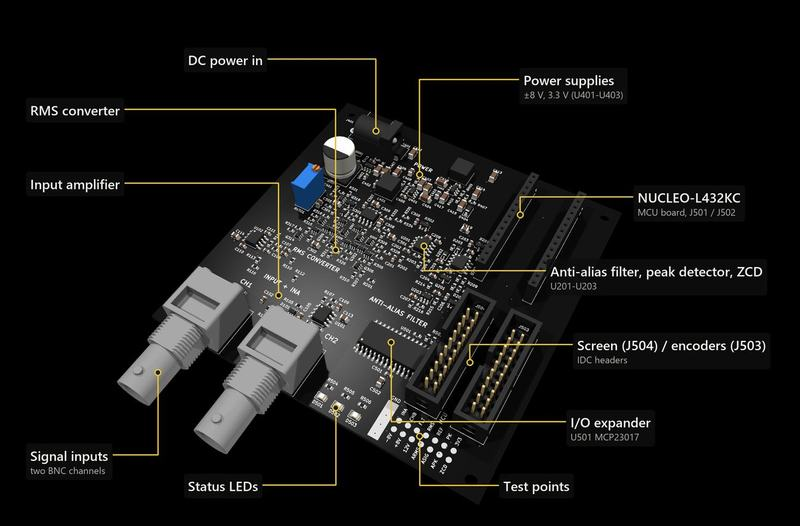
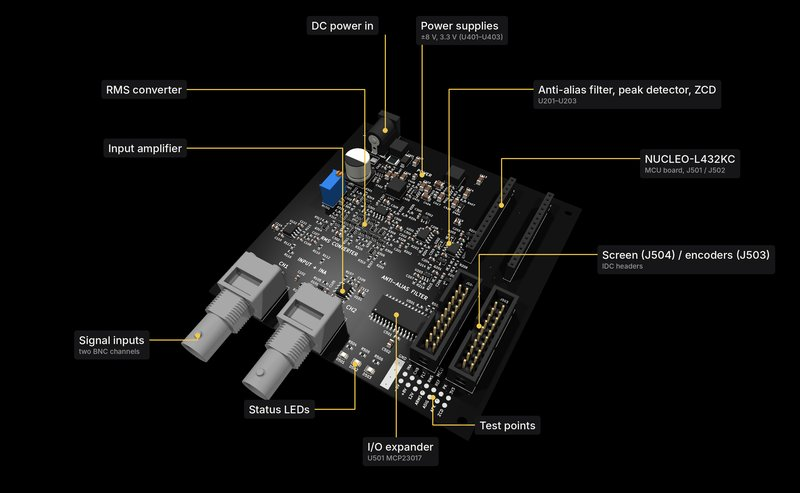
Fix cropped PCB render labels; add EBB team photo to Olifante section (#2)
* Show full PCB render without cropping labels; add EBB team photo to Olifante section

* Add second Dean's Merit List and bronze award (two years running)

* Bronze award: top 3 in year group

* PCB render: corrected barrel jack orientation, labels redrawn

---------

Changed region(s): [[0.0312, 0.0304, 0.9688, 0.9432], [0.5, 0.0304, 0.6562, 0.0913], [0.0312, 0.8519, 0.1875, 0.9128]]

diff --git a/index.html b/index.html
@@ -49,7 +49,7 @@ d.className+=(lite?" lite":" full")+(/Android/i.test(ua)?" android":(/iPhone|iPa
     <div class="tile t-red"><p>Under contract until 2030</p></div>
     <div class="tile glass t-now"><p>Engineer in Training at Cape Gate, <em>Dec&nbsp;2025 – present</em></p></div>
     <div class="tile glass t-n"><b>80.0%</b><span>cumulative GPA, B.Eng</span></div>
-    <div class="tile glass t-n"><b>2024</b><span>Dean’s Merit List</span></div>
+    <div class="tile glass t-n"><b>2×</b><span>Dean’s Merit List</span></div>
     <div class="tile glass t-n"><b>84.42%</b><span>NSC final aggregate</span></div>
     <div class="tile glass t-n"><b>2015</b><span>karate since Aug&nbsp;2015</span></div>
     <div class="tile glass t-cta"><p>Contact for work or collaboration</p>
@@ -84,7 +84,7 @@ d.className+=(lite?" lite":" full")+(/Android/i.test(ua)?" android":(/iPhone|iPa
   <h2 class="rv" id="projects-h">Selected<span class="d">Projects</span></h2>
 
   <article class="proj glass rv">
-    <div class="shot"><picture><source media="(max-width:760px)" srcset="img/pcb-render-s.jpg"><img src="img/pcb-render.jpg" alt="Annotated black render of the PBCCO-O1000 test PCB" width="1300" height="855" loading="lazy" decoding="async"></picture></div>
+    <div class="shot"><picture><source media="(max-width:760px)" srcset="img/pcb-render-s.jpg"><img src="img/pcb-render.jpg" alt="Annotated black render of the PBCCO-O1000 test PCB" width="1500" height="925" loading="lazy" decoding="async"></picture></div>
     <div class="txt">
       <p class="meta">EPR320 · ongoing · sole designer</p>
       <h3><span translate="no">PBCCO-O1000</span> impedance analyser front end</h3>
@@ -134,7 +134,8 @@ d.className+=(lite?" lite":" full")+(/Android/i.test(ua)?" android":(/iPhone|iPa
   <ul class="skills rv"><li>C++</li><li>Python</li><li>MATLAB</li><li>LTspice</li><li>SolidWorks</li><li>LaTeX</li><li>VHDL</li><li>Assembly</li><li>MS Office</li><li>Robotics / Mechatronics</li><li>MV/LV maintenance</li></ul>
   <div class="cols rv">
     <div><h3>Achievements</h3><ul>
-      <li>Dean’s Merit List, Faculty of Engineering, 2024</li>
+      <li>Dean’s Merit List, Faculty of Engineering, 2024, and again for second-year marks</li>
+      <li>Bronze award, two years in a row, placing in the top 3 of electrical engineering students in my year group</li>
       <li>Golden Key Award nominee, top 15% in Electrical Engineering</li>
       <li>Gold &amp; silver medallist, Shorin-Ryu Karate National Championship, 2017 – 2023</li>
       <li>Silver medallist, WUKF National Karate Championship, 2024</li>
@@ -201,7 +202,7 @@ d.className+=(lite?" lite":" full")+(/Android/i.test(ua)?" android":(/iPhone|iPa
         <span class="pl" aria-hidden="true"></span>
       </button>
       <div class="rep-b" id="ebb-b" role="region" aria-labelledby="ebb-h"><div class="rep-bi">
-        <p>Root-locus and frequency-response designs, tested on the hardware.</p><dl class="rep-s"><div><dt>G11 root-locus damping line</dt><dd>ζ&nbsp;=&nbsp;0.591</dd></div><div><dt>G11 / G22 references</dt><dd>60&nbsp;°C / 50&nbsp;°C</dd></div></dl><div class="rep-f"><figure><picture><source media="(max-width:760px)" srcset="img/ebb-pid-results-s.jpg"><img src="img/ebb-pid-results.jpg" alt="Temperature tracking and control signals for the G11 and G22 loops" width="1000" height="652" loading="lazy" decoding="async"></picture><figcaption>Measured temperature tracking and control signals, root-locus design (60&nbsp;°C / 50&nbsp;°C)</figcaption></figure></div><div class="rep-ph"><figure class="photo"><picture><source media="(max-width:760px)" srcset="img/ebb-setup-s.jpg"><img src="img/ebb-setup.jpg" alt="Laptop showing temperature and control-signal plots beside a breadboard circuit" width="1080" height="608" style="object-position:50% 50%" loading="lazy" decoding="async"></picture><figcaption class="cap">EBB 320 practical set-up</figcaption></figure><figure class="photo"><picture><source media="(max-width:760px)" srcset="img/ebb-lab-s.jpg"><img src="img/ebb-lab.jpg" alt="Carla, Clarise and Dominik at a lab bench with a laptop and breadboard" width="1080" height="608" style="object-position:50% 40%" loading="lazy" decoding="async"></picture><figcaption class="cap">EBB 320 practical · Carla, Clarise and Dominik</figcaption></figure></div><p class="source">Photos: @eeceup, University of Pretoria.</p>
+        <p>Root-locus and frequency-response designs, tested on the hardware.</p><dl class="rep-s"><div><dt>G11 root-locus damping line</dt><dd>ζ&nbsp;=&nbsp;0.591</dd></div><div><dt>G11 / G22 references</dt><dd>60&nbsp;°C / 50&nbsp;°C</dd></div></dl><div class="rep-f"><figure><picture><source media="(max-width:760px)" srcset="img/ebb-pid-results-s.jpg"><img src="img/ebb-pid-results.jpg" alt="Temperature tracking and control signals for the G11 and G22 loops" width="1000" height="652" loading="lazy" decoding="async"></picture><figcaption>Measured temperature tracking and control signals, root-locus design (60&nbsp;°C / 50&nbsp;°C)</figcaption></figure></div><div class="rep-ph"><figure class="photo"><picture><source media="(max-width:760px)" srcset="img/ebb-setup-s.jpg"><img src="img/ebb-setup.jpg" alt="Laptop showing temperature and control-signal plots beside a breadboard circuit" width="1080" height="608" style="object-position:50% 50%" loading="lazy" decoding="async"></picture><figcaption class="cap">EBB 320 practical set-up</figcaption></figure></div><p class="source">Photo: @eeceup, University of Pretoria.</p>
       </div></div>
     </article>
     <article class="glass rep rv">
@@ -239,6 +240,7 @@ d.className+=(lite?" lite":" full")+(/Android/i.test(ua)?" android":(/iPhone|iPa
     <div class="oli-tx"><p class="dim">Pienk BCC Olifante is a friend group of electrical engineering students at the University of Pretoria. Charl Marais and Dirk-David Krause started the group on 14 February&nbsp;2024, Ulrich Snyman joined about two weeks later, and Jonathan Oliver joined on 4 March&nbsp;2025.</p>
     <p class="dim">The group studies and builds together, and puts good marks first. It is where the shared projects start, beginning with the EIR210 DC motor in May&nbsp;2025. The <span translate="no">PBCCO-O1000</span> for EPR320 is my own project; I am its sole author, designer and systems engineer.</p></div>
   </div>
+  <figure class="glass oli-team rv"><picture><source media="(max-width:760px)" srcset="img/ebb-lab-s.jpg"><img src="img/ebb-lab.jpg" alt="Charl and his EBB 320 team at a lab bench with a laptop and breadboard" width="1080" height="608" style="object-position:50% 40%" loading="lazy" decoding="async"></picture><figcaption class="cap">EBB 320 team practical · Charl, Carla, Clarise and Dominik<br><span class="source">Photo: @eeceup, University of Pretoria</span></figcaption></figure>
   <div class="glass tl-card rv">
     <div class="tl-scroll" tabindex="0" role="group" aria-label="Group timeline, scrolls sideways on small screens">
       <div class="tl" aria-hidden="true">

diff --git a/css/site.css b/css/site.css
@@ -232,8 +232,8 @@ h2 .d { display: block; color: var(--heading-2); }
 /* projects */
 .proj { display: grid; grid-template-columns: minmax(0, 1.15fr) minmax(0, 1fr); overflow: hidden; margin-bottom: 20px; }
 .proj .shot { background: #000; min-height: 260px; display: flex; align-items: center; overflow: hidden; }
-.proj .shot img { width: 100%; height: 100%; object-fit: cover; display: block; transition: transform 1.2s var(--ease); }
-.proj:hover .shot img { transform: scale(1.04); }
+.proj .shot img { width: 100%; height: 100%; object-fit: contain; display: block; }
+
 .proj .txt { padding: clamp(22px, 3vw, 36px); display: flex; flex-direction: column; gap: 12px; }
 .proj .txt p { margin: 0; font-size: 15px; color: var(--fg-soft); }
 .meta { font: 400 12px/1.4 var(--mono); color: var(--accent); }
@@ -424,7 +424,7 @@ h2 .d { display: block; color: var(--heading-2); }
 .lite .orb { filter: none; animation: none; will-change: auto; }
 .lite .o1 { opacity: 0.7; background: radial-gradient(circle, rgba(156, 29, 38, 0.6), transparent 68%); }
 .lite .o2, .lite .o3, .lite #intro::before { display: none; }
-.lite .kar img, .lite .proj .shot img { transition: none; transform: none; }
+.lite .kar img { transition: none; transform: none; }
 .lite .rv { transition-duration: 0.45s; }
 .lite #intro { animation-duration: 0.6s; animation-delay: 1.2s; }
 .lite .intro-n span, .lite .intro-s { animation-duration: 0.5s; }
@@ -438,3 +438,8 @@ h2 .d { display: block; color: var(--heading-2); }
   #intro { display: none; }
   html { scroll-behavior: auto; }
 }
+
+/* team photo in the Olifante section */
+.oli-team { position: relative; margin: 0 0 20px; overflow: hidden; border-radius: var(--radius); }
+.oli-team img { width: 100%; height: auto; object-fit: cover; display: block; }
+.oli-team .cap { position: absolute; left: 12px; bottom: 12px; right: 12px; }

diff --git a/tools/build.py b/tools/build.py
@@ -105,7 +105,7 @@ HERO = f'''
     <div class="tile t-red"><p>Under contract until 2030</p></div>
     <div class="tile glass t-now"><p>Engineer in Training at Cape Gate, <em>Dec&nbsp;2025 – present</em></p></div>
     <div class="tile glass t-n"><b>80.0%</b><span>cumulative GPA, B.Eng</span></div>
-    <div class="tile glass t-n"><b>2024</b><span>Dean’s Merit List</span></div>
+    <div class="tile glass t-n"><b>2×</b><span>Dean’s Merit List</span></div>
     <div class="tile glass t-n"><b>84.42%</b><span>NSC final aggregate</span></div>
     <div class="tile glass t-n"><b>2015</b><span>karate since Aug&nbsp;2015</span></div>
     <div class="tile glass t-cta"><p>Contact for work or collaboration</p>
@@ -194,7 +194,8 @@ EDU = '''
   <ul class="skills rv"><li>C++</li><li>Python</li><li>MATLAB</li><li>LTspice</li><li>SolidWorks</li><li>LaTeX</li><li>VHDL</li><li>Assembly</li><li>MS Office</li><li>Robotics / Mechatronics</li><li>MV/LV maintenance</li></ul>
   <div class="cols rv">
     <div><h3>Achievements</h3><ul>
-      <li>Dean’s Merit List, Faculty of Engineering, 2024</li>
+      <li>Dean’s Merit List, Faculty of Engineering, 2024, and again for second-year marks</li>
+      <li>Bronze award, two years in a row, placing in the top 3 of electrical engineering students in my year group</li>
       <li>Golden Key Award nominee, top 15% in Electrical Engineering</li>
       <li>Gold &amp; silver medallist, Shorin-Ryu Karate National Championship, 2017 – 2023</li>
       <li>Silver medallist, WUKF National Karate Championship, 2024</li>
@@ -243,8 +244,7 @@ REPS = "".join([
         + '<div class="rep-f">' + figure("ebb-pid-results", "Temperature tracking and control signals for the G11 and G22 loops", "Measured temperature tracking and control signals, root-locus design (60&nbsp;°C / 50&nbsp;°C)") + "</div>"
         + '<div class="rep-ph">'
         + photo("ebb-setup", "Laptop showing temperature and control-signal plots beside a breadboard circuit", "EBB 320 practical set-up", pos="50% 50%")
-        + photo("ebb-lab", "Carla, Clarise and Dominik at a lab bench with a laptop and breadboard", "EBB 320 practical · Carla, Clarise and Dominik", pos="50% 40%")
-        + '</div><p class="source">Photos: @eeceup, University of Pretoria.</p>'),
+        + '</div><p class="source">Photo: @eeceup, University of Pretoria.</p>'),
     rep("ekk", "EKK 320", "Three-Phase Transformers", "Transformer Bank",
         "Y-Y, Y-Δ and Δ-Δ banks agreed within about 1% (theory vs simulation) and 5% (measured), secondary side.",
         stats([("77.70&nbsp;V", "Y-Δ secondary, simulated (rms)"), ("4.80&nbsp;W → 4.29&nbsp;W", "Y-Δ per-phase power in → out, simulated")])
@@ -279,6 +279,7 @@ OLIFANTE = f'''
     <div class="oli-tx"><p class="dim">Pienk BCC Olifante is a friend group of electrical engineering students at the University of Pretoria. Charl Marais and Dirk-David Krause started the group on 14 February&nbsp;2024, Ulrich Snyman joined about two weeks later, and Jonathan Oliver joined on 4 March&nbsp;2025.</p>
     <p class="dim">The group studies and builds together, and puts good marks first. It is where the shared projects start, beginning with the EIR210 DC motor in May&nbsp;2025. The <span translate="no">PBCCO-O1000</span> for EPR320 is my own project; I am its sole author, designer and systems engineer.</p></div>
   </div>
+  <figure class="glass oli-team rv">{pic("ebb-lab", "Charl and his EBB 320 team at a lab bench with a laptop and breadboard", "50% 40%")}<figcaption class="cap">EBB 320 team practical · Charl, Carla, Clarise and Dominik<br><span class="source">Photo: @eeceup, University of Pretoria</span></figcaption></figure>
   <div class="glass tl-card rv">
     <div class="tl-scroll" tabindex="0" role="group" aria-label="Group timeline, scrolls sideways on small screens">
       <div class="tl" aria-hidden="true">
